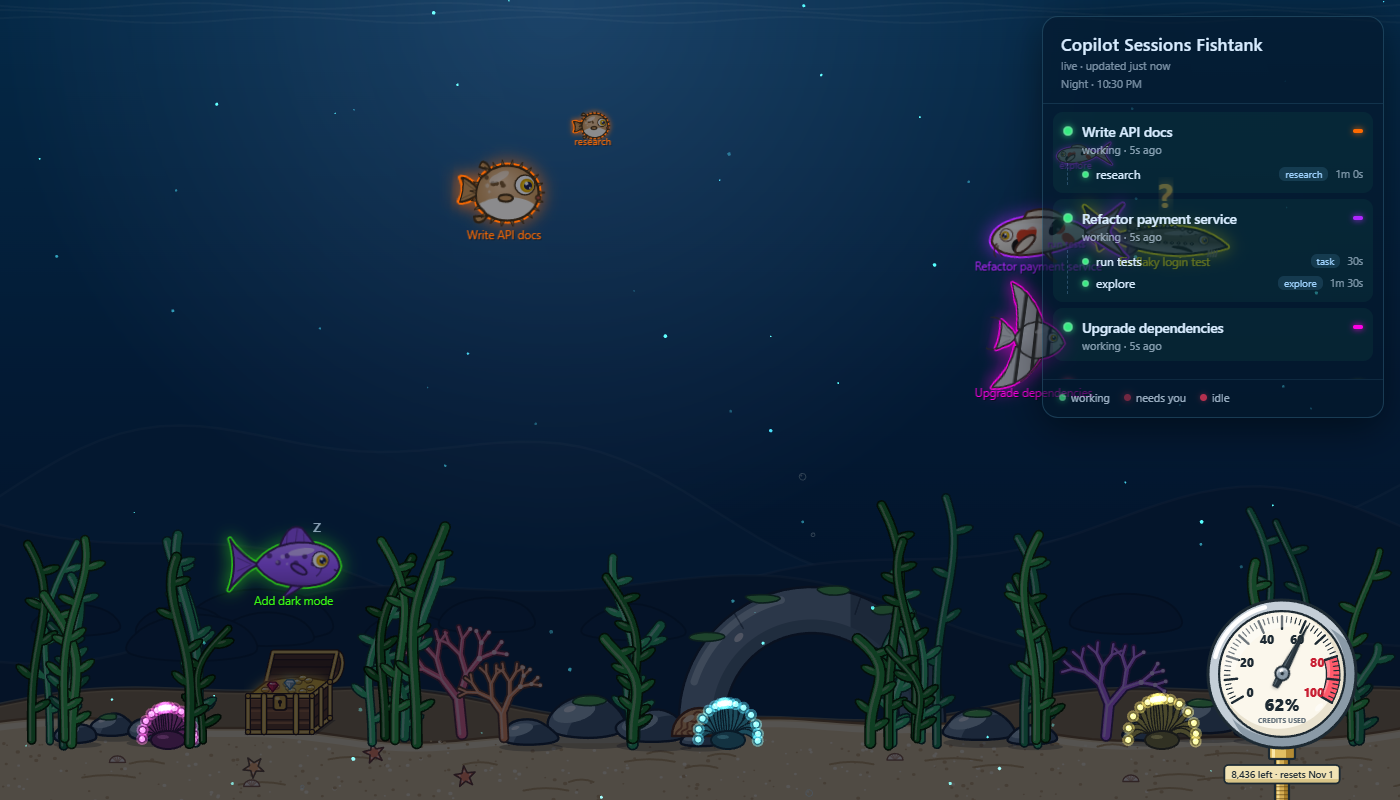
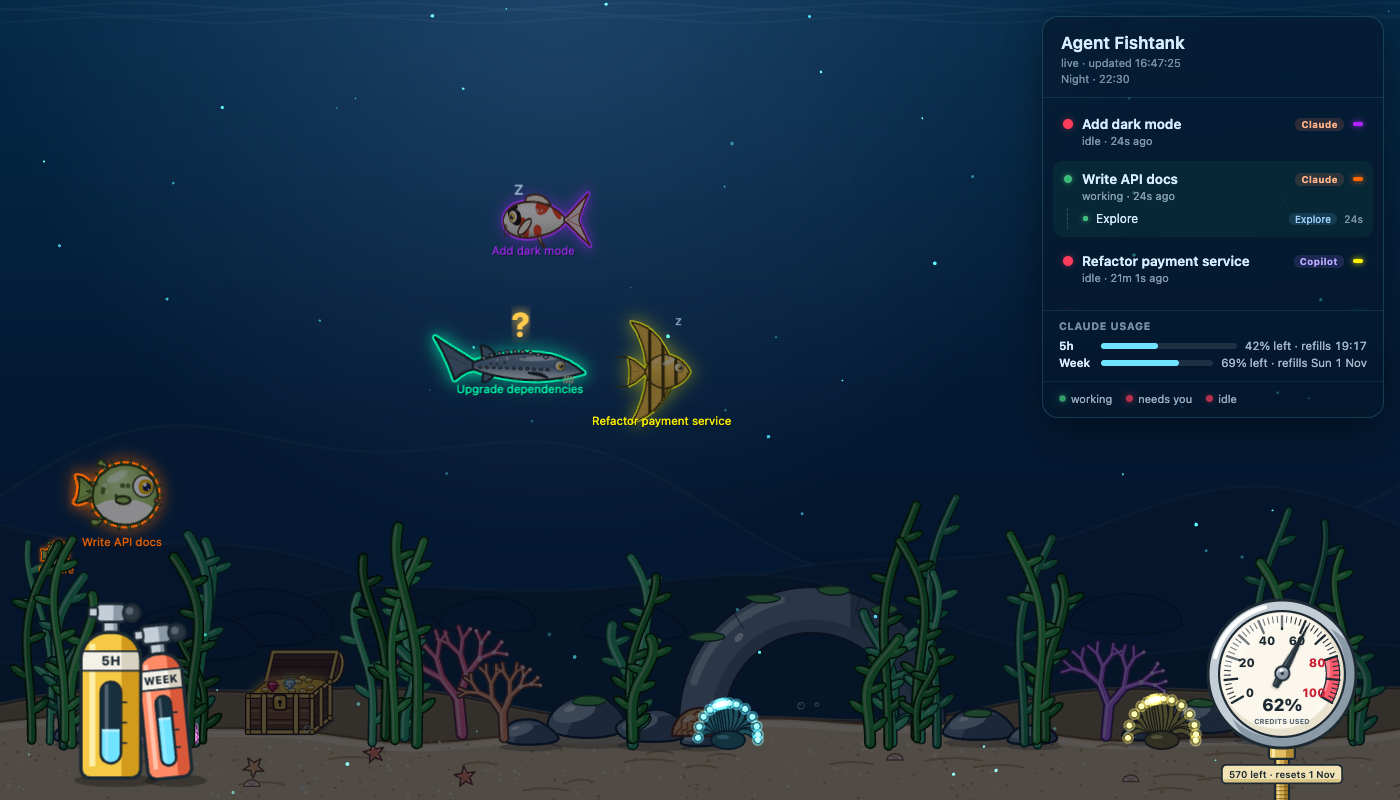
docs(readme): describe the desktop app layout and refresh screenshots

diff --git a/README.md b/README.md
@@ -11,12 +11,12 @@ Every session is a glowing fish: it **races around while the agent is working**,
 ## Features
 
 - One fish per Copilot CLI or Claude Code session that was active in the last hour, labelled with its session name
-  (the name you set with `/rename`, or else the start of your first prompt).
+  (the name you gave it, or else the title Claude Code generated for it, or the start of your first prompt).
 - Cartoon-style fish with ink outlines and big glossy eyes, rendered with WebGL ([PixiJS](https://pixijs.com)); their bodies
   bend as they swim and they glow in their session's neon colour. The seabed (seaweed, anemones, coral, rocks, a stone
   arch and a treasure chest) is drawn in the same cartoon style.
 - Each session gets its own species — tropical fish, koi, sturgeon, angelfish or pufferfish. New sessions get the species
-  that's least common in the tank so you get a good mix, and a session keeps its species (even across page reloads).
+  that's least common in the tank so you get a good mix, and a session keeps its species (even when the app restarts).
 - A small fish of the same species and colours for every running subagent, swimming close to its parent.
 - Every few minutes a humpback whale or a great white shark glides by far in the background, never both at once (start the app with `--whale` or `--shark` to summon one right away).
 - When every session is idle (or there are none), a little red crab comes out to stroll along the sand: he looks
@@ -36,11 +36,11 @@ Every session is a glowing fish: it **races around while the agent is working**,
   under 10% left). A plaque on its pipe shows the credits left and the reset date. The gold in the treasure chest
   shrinks as credits run out (empty at 0%), with one diamond, ruby or sapphire for every 20% left. Read from the
   quota snapshot the CLI writes to its session logs, so no extra login or API call.
-- Your Claude Pro/Max plan usage as a diver's two scuba tanks standing in the sand by the rocks: the big yellow one
-  for the 5-hour limit, the slim coral one leaning on it for the weekly limit. A sight glass on each shows the air
-  left (cyan, amber under 25%, red under 10%), and a dive slate in the sand says how much is left and when it refills.
-  An almost empty tank leaks bubbles from its valve. Claude Code only gives this usage to its status line, so the
-  app wraps your status line (see below); it looks exactly as before.
+- Your Claude Pro/Max plan usage as a diver's two scuba tanks standing in the sand by the rocks on the left: the big
+  yellow one for the 5-hour limit, the slim coral one leaning on it for the weekly limit. A sight glass on each shows
+  the air left (cyan, amber under 25%, red under 10%), and an almost empty tank leaks bubbles from its valve. The side panel lists the exact numbers and when each one refills.
+  Claude Code only gives this usage to its status line, so the app wraps your status line (see below); it looks
+  exactly as before.
 - A desktop app for macOS and Windows. It opens by itself when you start a `copilot` or `claude` session (also in the
   Claude desktop app), and quits after the last one closes. Closing its window while sessions run only hides it.
 - It only listens on `127.0.0.1` and never steers your agent: it reads Copilot's local session logs and receives
@@ -92,7 +92,9 @@ Alt to show it).
   Hooks don't fire on everything (not when you press Esc or answer a permission prompt), so the app also reads the
   small file Claude Code keeps per running session (`~/.claude/sessions/<pid>.json`), which says the moment a session
   turns busy, idle or waiting, and the name you gave it. That file isn't documented; if a Claude Code update changes
-  it, the fishtank falls back to the hooks alone.
+  it, the fishtank falls back to the hooks alone. For the session's title (like the one in Claude Code's session list),
+  the app follows the session's transcript, reading only new lines and picking out just the title records; if that
+  internal format changes, the fish is named after your first prompt instead.
 - **Claude plan usage:** connecting sets Claude Code's status line to `fishtank statusline`, which passes the
   `rate_limits` part of its input to the app and then runs your own status line (kept, base64-encoded, at the end of
   the command) with the same input, so you see the same status line as before. Without a status line of your own it
@@ -102,7 +104,8 @@ Alt to show it).
 - The app runs the server (`server/server.ts`): it merges both into one live feed and pushes it to the window over
   Server-Sent Events.
 - Long sessions write big logs. The app reads a Copilot log only from its last 8 MB when it first sees it and then
-  just the new lines, never reads Claude Code's transcripts, and forgets sessions an hour after they went quiet.
+  just the new lines. Claude Code transcripts are read the same way (from their last 4 MB, for the title only). Sessions
+  are forgotten an hour after they went quiet.
 - Every 5 seconds the app checks whether a CLI is still running: Copilot's `inuse.<pid>.lock` files and Claude Code's
   `~/.claude/sessions/<pid>.json` files. Once neither has been running for ~15 seconds it quits. Opened by hand, it
   stays until a session has come and gone.
@@ -125,6 +128,7 @@ Start the app with these to change what the tank shows, e.g. on macOS
 | `FISHTANK_PORT`        | `4321`                     | Port the app listens on (localhost only). The hooks use the port set when connecting, so connect again after changing it. |
 | `CLAUDE_CONFIG_DIR`    | `~/.claude`                | Claude Code's config folder (settings, running sessions) |
 | `COPILOT_HOME`         | `~/.copilot`               | Copilot CLI's folder (hooks, session logs)    |
+| `COPILOT_SESSION_DIR`  | `$COPILOT_HOME/session-state` | Where Copilot CLI stores its session logs, if somewhere else |
 
 ## Development
 
@@ -147,7 +151,8 @@ which `npm run typecheck` enforces through `tsconfig.server.json`.
 | `shared/types.ts`    | The live feed's types, shared by the server and the page               |
 | `server/server.ts`   | HTTP server: `/events` feed, `/hook/claude`, `/statusline/claude`, static page, idle check |
 | `server/copilot.ts`  | Copilot CLI: tails the session logs, quota, process check              |
-| `server/claude.ts`   | Claude Code: hook events and running-session files → session state     |
+| `server/claude.ts`   | Claude Code: hook events, running-session files and transcript titles → session state |
+| `server/logtail.ts`  | Follows a growing log a few new lines at a time                        |
 | `server/index.ts`    | Runs the server on its own, for development                            |
 | `electron/main.ts`   | The desktop app: window, menu, first-run connect dialog, quitting when idle |
 | `electron/connect.ts` | Connects/disconnects Claude Code and Copilot CLI (hooks, status line)  |
